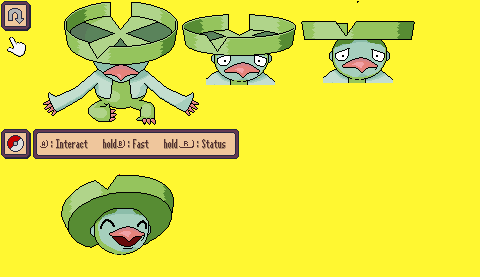
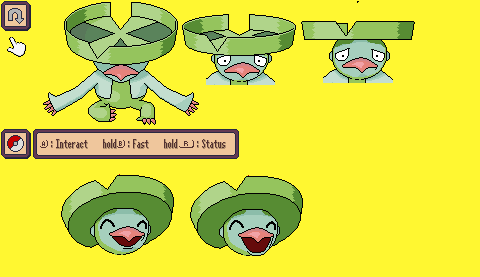
Lombre eats berry

Changed region(s): [[0.375, 0.6354, 0.6562, 0.9242]]

diff --git a/src/spa_lombre.c b/src/spa_lombre.c
@@ -52,9 +52,9 @@ static const union AnimCmd sAnim_Normal[] =
 
 static const union AnimCmd sAnim_HeadAfterThawTop[] =
 {
-    ANIMCMD_FRAME(.imageValue = 7, .duration = 6),
-    ANIMCMD_FRAME(.imageValue = 1, .duration = 6),
-    ANIMCMD_FRAME(.imageValue = 8, .duration = 6),
+    ANIMCMD_FRAME(.imageValue = 7, .duration = 3),
+    ANIMCMD_FRAME(.imageValue = 1, .duration = 3),
+    ANIMCMD_FRAME(.imageValue = 8, .duration = 3),
     ANIMCMD_FRAME(.imageValue = 3, .duration = 60),
     ANIMCMD_FRAME(.imageValue = 3, .duration = 60),
     ANIMCMD_END
@@ -62,9 +62,9 @@ static const union AnimCmd sAnim_HeadAfterThawTop[] =
 
 static const union AnimCmd sAnim_HeadAfterThawBottom[] =
 {
-    ANIMCMD_FRAME(.imageValue = 4, .duration = 6),
-    ANIMCMD_FRAME(.imageValue = 1, .duration = 6),
-    ANIMCMD_FRAME(.imageValue = 5, .duration = 6),
+    ANIMCMD_FRAME(.imageValue = 4, .duration = 3),
+    ANIMCMD_FRAME(.imageValue = 1, .duration = 3),
+    ANIMCMD_FRAME(.imageValue = 5, .duration = 3),
     ANIMCMD_FRAME(.imageValue = 3, .duration = 60),
     ANIMCMD_FRAME(.imageValue = 3, .duration = 60),
     ANIMCMD_END
@@ -97,7 +97,30 @@ static const union AnimCmd sAnim_HeadAngry[] =
 
 static const union AnimCmd sAnim_HeadHappy[] =
 {
-    ANIMCMD_FRAME(.imageValue = 3, .duration = 16),
+    ANIMCMD_FRAME(.imageValue = 3, .duration = 60),
+    ANIMCMD_FRAME(.imageValue = 3, .duration = 60),
+    ANIMCMD_END
+};
+
+static const union AnimCmd sAnim_HeadBiteTop[] =
+{
+    ANIMCMD_FRAME(.imageValue = 2, .duration = 32),
+    ANIMCMD_FRAME(.imageValue = 9, .duration = 8),
+    ANIMCMD_FRAME(.imageValue = 9, .duration = 15),
+    ANIMCMD_FRAME(.imageValue = 9, .duration = 1),
+    ANIMCMD_FRAME(.imageValue = 9, .duration = 4),
+    ANIMCMD_FRAME(.imageValue = 2, .duration = 4),
+    ANIMCMD_END
+};
+
+static const union AnimCmd sAnim_HeadBiteBottom[] =
+{
+    ANIMCMD_FRAME(.imageValue = 2, .duration = 32),
+    ANIMCMD_FRAME(.imageValue = 3, .duration = 8),
+    ANIMCMD_FRAME(.imageValue = 6, .duration = 15),
+    ANIMCMD_FRAME(.imageValue = 6, .duration = 1),
+    ANIMCMD_FRAME(.imageValue = 3, .duration = 4),
+    ANIMCMD_FRAME(.imageValue = 2, .duration = 4),
     ANIMCMD_END
 };
 
@@ -110,6 +133,7 @@ static const union AnimCmd * const sAnims_LombreHeadTopLeft[] =
     sAnim_HeadBadTouch,
     sAnim_HeadAngry,
     sAnim_HeadHappy,
+    sAnim_HeadBiteTop,
 };
 
 static const union AnimCmd * const sAnims_LombreHeadTopRight[] =
@@ -121,6 +145,7 @@ static const union AnimCmd * const sAnims_LombreHeadTopRight[] =
     sAnim_HeadBadTouch,
     sAnim_HeadAngry,
     sAnim_HeadHappy,
+    sAnim_HeadBiteTop,
 };
 
 static const union AnimCmd * const sAnims_LombreHeadBottomLeft[] =
@@ -129,6 +154,7 @@ static const union AnimCmd * const sAnims_LombreHeadBottomLeft[] =
     sAnim_HeadAfterThawBottom,
     sAnim_HeadSatisfied,
     sAnim_HeadHappy,
+    sAnim_HeadBiteBottom,
 };
 
 static const union AnimCmd * const sAnims_LombreHeadBottomRight[] =
@@ -137,6 +163,7 @@ static const union AnimCmd * const sAnims_LombreHeadBottomRight[] =
     sAnim_HeadAfterThawBottom,
     sAnim_HeadSatisfied,
     sAnim_HeadHappy,
+    sAnim_HeadBiteBottom,
 };
 
 static const union AnimCmd * const sAnims_LombreBody[] =
@@ -190,6 +217,7 @@ static const struct SpriteFrameImage sPicTable_LombreHeadTopLeft[] =
     spa_frame(gLombreHeadTopLeft_Gfx, 6, 8, 8),
     spa_frame(gLombreHeadTopLeft_Gfx, 7, 8, 8),
     spa_frame(gLombreHeadTopLeft_Gfx, 8, 8, 8),
+    spa_frame(gLombreHeadTopLeft_Gfx, 9, 8, 8),
 };
 
 static const struct SpriteFrameImage sPicTable_LombreHeadTopRight[] =
@@ -203,6 +231,7 @@ static const struct SpriteFrameImage sPicTable_LombreHeadTopRight[] =
     spa_frame(gLombreHeadTopRight_Gfx, 6, 8, 8),
     spa_frame(gLombreHeadTopRight_Gfx, 7, 8, 8),
     spa_frame(gLombreHeadTopRight_Gfx, 8, 8, 8),
+    spa_frame(gLombreHeadTopRight_Gfx, 9, 8, 8),
 };
 
 static const struct SpriteFrameImage sPicTable_LombreHeadBottomLeft[] =
@@ -213,6 +242,7 @@ static const struct SpriteFrameImage sPicTable_LombreHeadBottomLeft[] =
     spa_frame(gLombreHeadBottomLeft_Gfx, 3, 8, 4),
     spa_frame(gLombreHeadBottomLeft_Gfx, 4, 8, 4),
     spa_frame(gLombreHeadBottomLeft_Gfx, 5, 8, 4),
+    spa_frame(gLombreHeadBottomLeft_Gfx, 6, 8, 4),
 };
 
 static const struct SpriteFrameImage sPicTable_LombreHeadBottomRight[] =
@@ -223,6 +253,7 @@ static const struct SpriteFrameImage sPicTable_LombreHeadBottomRight[] =
     spa_frame(gLombreHeadBottomRight_Gfx, 3, 8, 4),
     spa_frame(gLombreHeadBottomRight_Gfx, 4, 8, 4),
     spa_frame(gLombreHeadBottomRight_Gfx, 5, 8, 4),
+    spa_frame(gLombreHeadBottomRight_Gfx, 6, 8, 4),
 };
 
 static const struct SpriteFrameImage sPicTable_LombreBody[] =
@@ -514,6 +545,14 @@ void StartLombreHappyAnim(void)
     StartSpriteAnim(&gSprites[sLombreHeadBottomRightSpriteId], 3);
 }
 
+static void StartLombreBite(void)
+{
+    StartSpriteAnim(&gSprites[sLombreHeadTopLeftSpriteId], 7);
+    StartSpriteAnim(&gSprites[sLombreHeadTopRightSpriteId], 7);
+    StartSpriteAnim(&gSprites[sLombreHeadBottomLeftSpriteId], 4);
+    StartSpriteAnim(&gSprites[sLombreHeadBottomRightSpriteId], 4);
+}
+
 void ResetLombreSprites(void)
 {
     StartSpriteAnim(&gSprites[sLombreHeadTopLeftSpriteId], 2);
@@ -544,11 +583,71 @@ u32 GetCurrentIceMeltZone(struct Sprite *sprite)
     return ICE_ZONE_NONE;
 }
 
+static const u16 LombreFeedingZone[4] =
+{
+    // MIN_X, MAX_X, MIN_Y, MAX_Y
+       120,   165,   70,    90
+};
+
+static bool32 IsBerryInLombreFeedingZone(void)
+{
+    if (gSprites[sSpaData.berrySpriteId].x > LombreFeedingZone[0] && gSprites[sSpaData.berrySpriteId].x < LombreFeedingZone[1] 
+     && gSprites[sSpaData.berrySpriteId].y > LombreFeedingZone[2] && gSprites[sSpaData.berrySpriteId].y < LombreFeedingZone[3])
+    {
+        return TRUE;
+    }
+
+    return FALSE;
+}
+
+static void LombreEatBerry(u8 taskId)
+{
+    tBerryBites++;
+    if (tBerryBites >= 3)
+        DestroySprite(&gSprites[sSpaData.berrySpriteId]);
+    else
+        StartSpriteAnim(&gSprites[sSpaData.berrySpriteId], tBerryBites);
+}
+
 void HandleItemsLombre(u8 taskId)
 {
     switch (tSelectedItem)
     {
     case SPA_BERRY:
+        if (sSpaData.isSatisfied)
+        {
+            if (tBiteState == BITE_STATE_ACTIVE && gSprites[sLombreHeadTopLeftSpriteId].animEnded)
+            {
+                if (tBerryBites >= 3)
+                {
+                    StartLombreHappyAnim();
+                    PauseUntilAnimEnds(taskId, sLombreHeadTopLeftSpriteId);
+                    CreateMusicSprite(taskId);
+                    DoSpaMonEnjoyedSnackText();
+                    tBerryBites = 0;
+                }
+                tBiteState = BITE_STATE_NONE;
+            }
+            else if (IsBerryInLombreFeedingZone())
+            {
+                switch (tBiteState)
+                {
+                case BITE_STATE_NONE:
+                    StartLombreBite();
+                    tCounter = 0;
+                    tBiteState = BITE_STATE_ACTIVE;
+                    break;
+                case BITE_STATE_ACTIVE:
+                    if (gSprites[sLombreHeadTopLeftSpriteId].animCmdIndex == 3)
+                    {
+                        LombreEatBerry(taskId);
+                        PlaySE(SE_M_BITE);
+                    }
+                    tCounter++;
+                    break;
+                }
+            }
+        }
         break;
     case SPA_CLAW:
         break;

diff --git a/src/spa_fletchinder.c b/src/spa_fletchinder.c
@@ -657,7 +657,7 @@ void HandleItemsFletchinder(u8 taskId)
                     {
                         PlaySE(SE_M_ABSORB);
                     }
-                        tCounter++;
+                    tCounter++;
                     break;
                 }
             }
